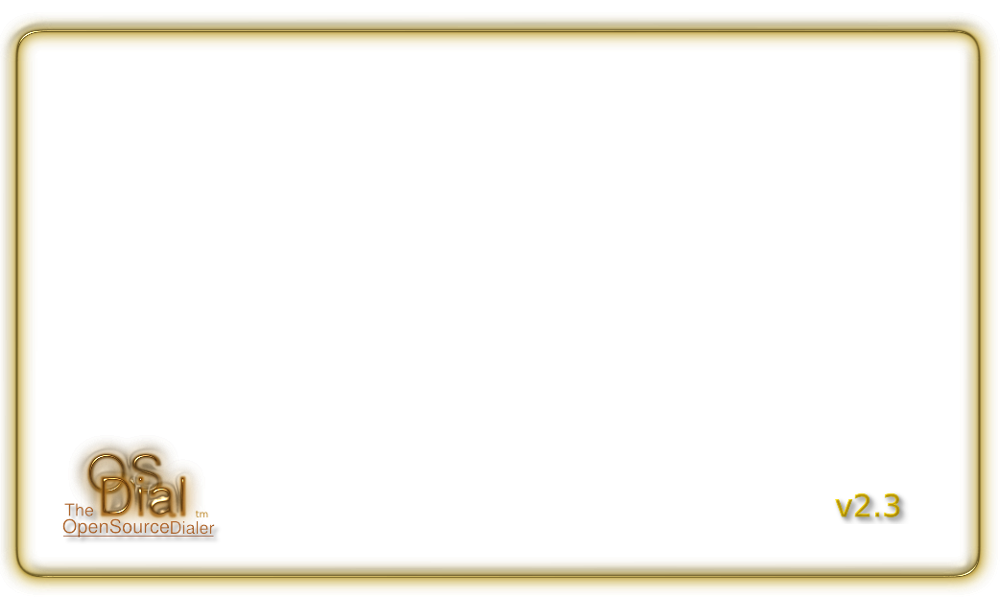
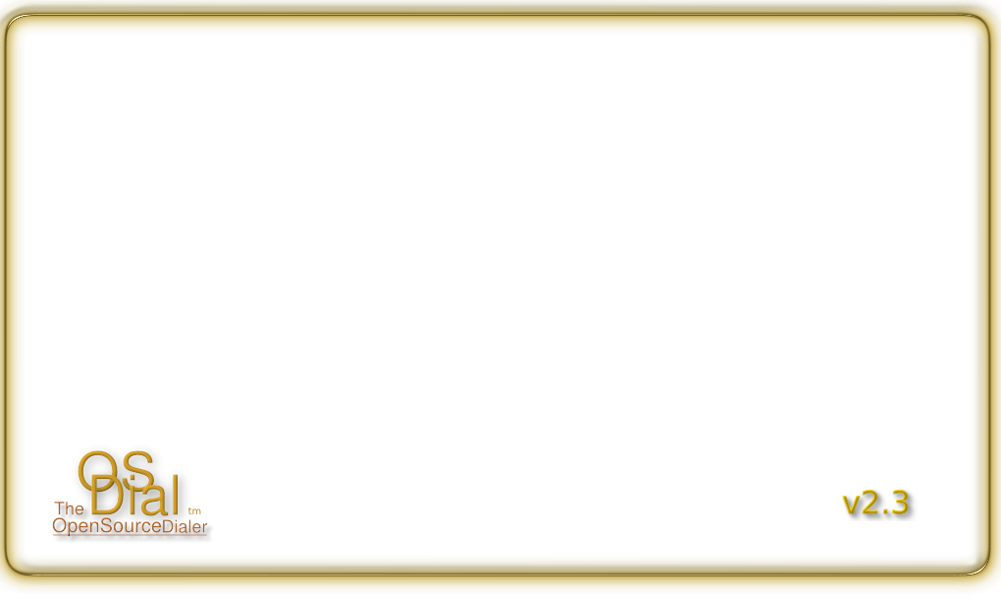
2.3 graphics updates.

Changed region(s): [[0.0, 0.0, 1.0, 0.9688], [0.8362, 0.7812, 0.9291, 0.875]]

diff --git a/www/index.php b/www/index.php
@@ -72,7 +72,7 @@ require('admin/templates/' . $system_settings['admin_template'] . '/display.php'
 <?php } ?>
 <br><br><br>
 
-<table bgcolor=#56734F align=center border=0 align=center width=546 height=381 cellpadding=0 cellspacing=0 background="admin/templates/<?php echo $system_settings['admin_template']; ?>/images/osdial-bg3.png">
+<table bgcolor=#56734F align=center border=0 align=center width=546 height=381 cellpadding=0 cellspacing=0 background="admin/templates/<?php echo $system_settings['admin_template']; ?>/images/osdial-bg.png">
 <tr>
     <td>
     
